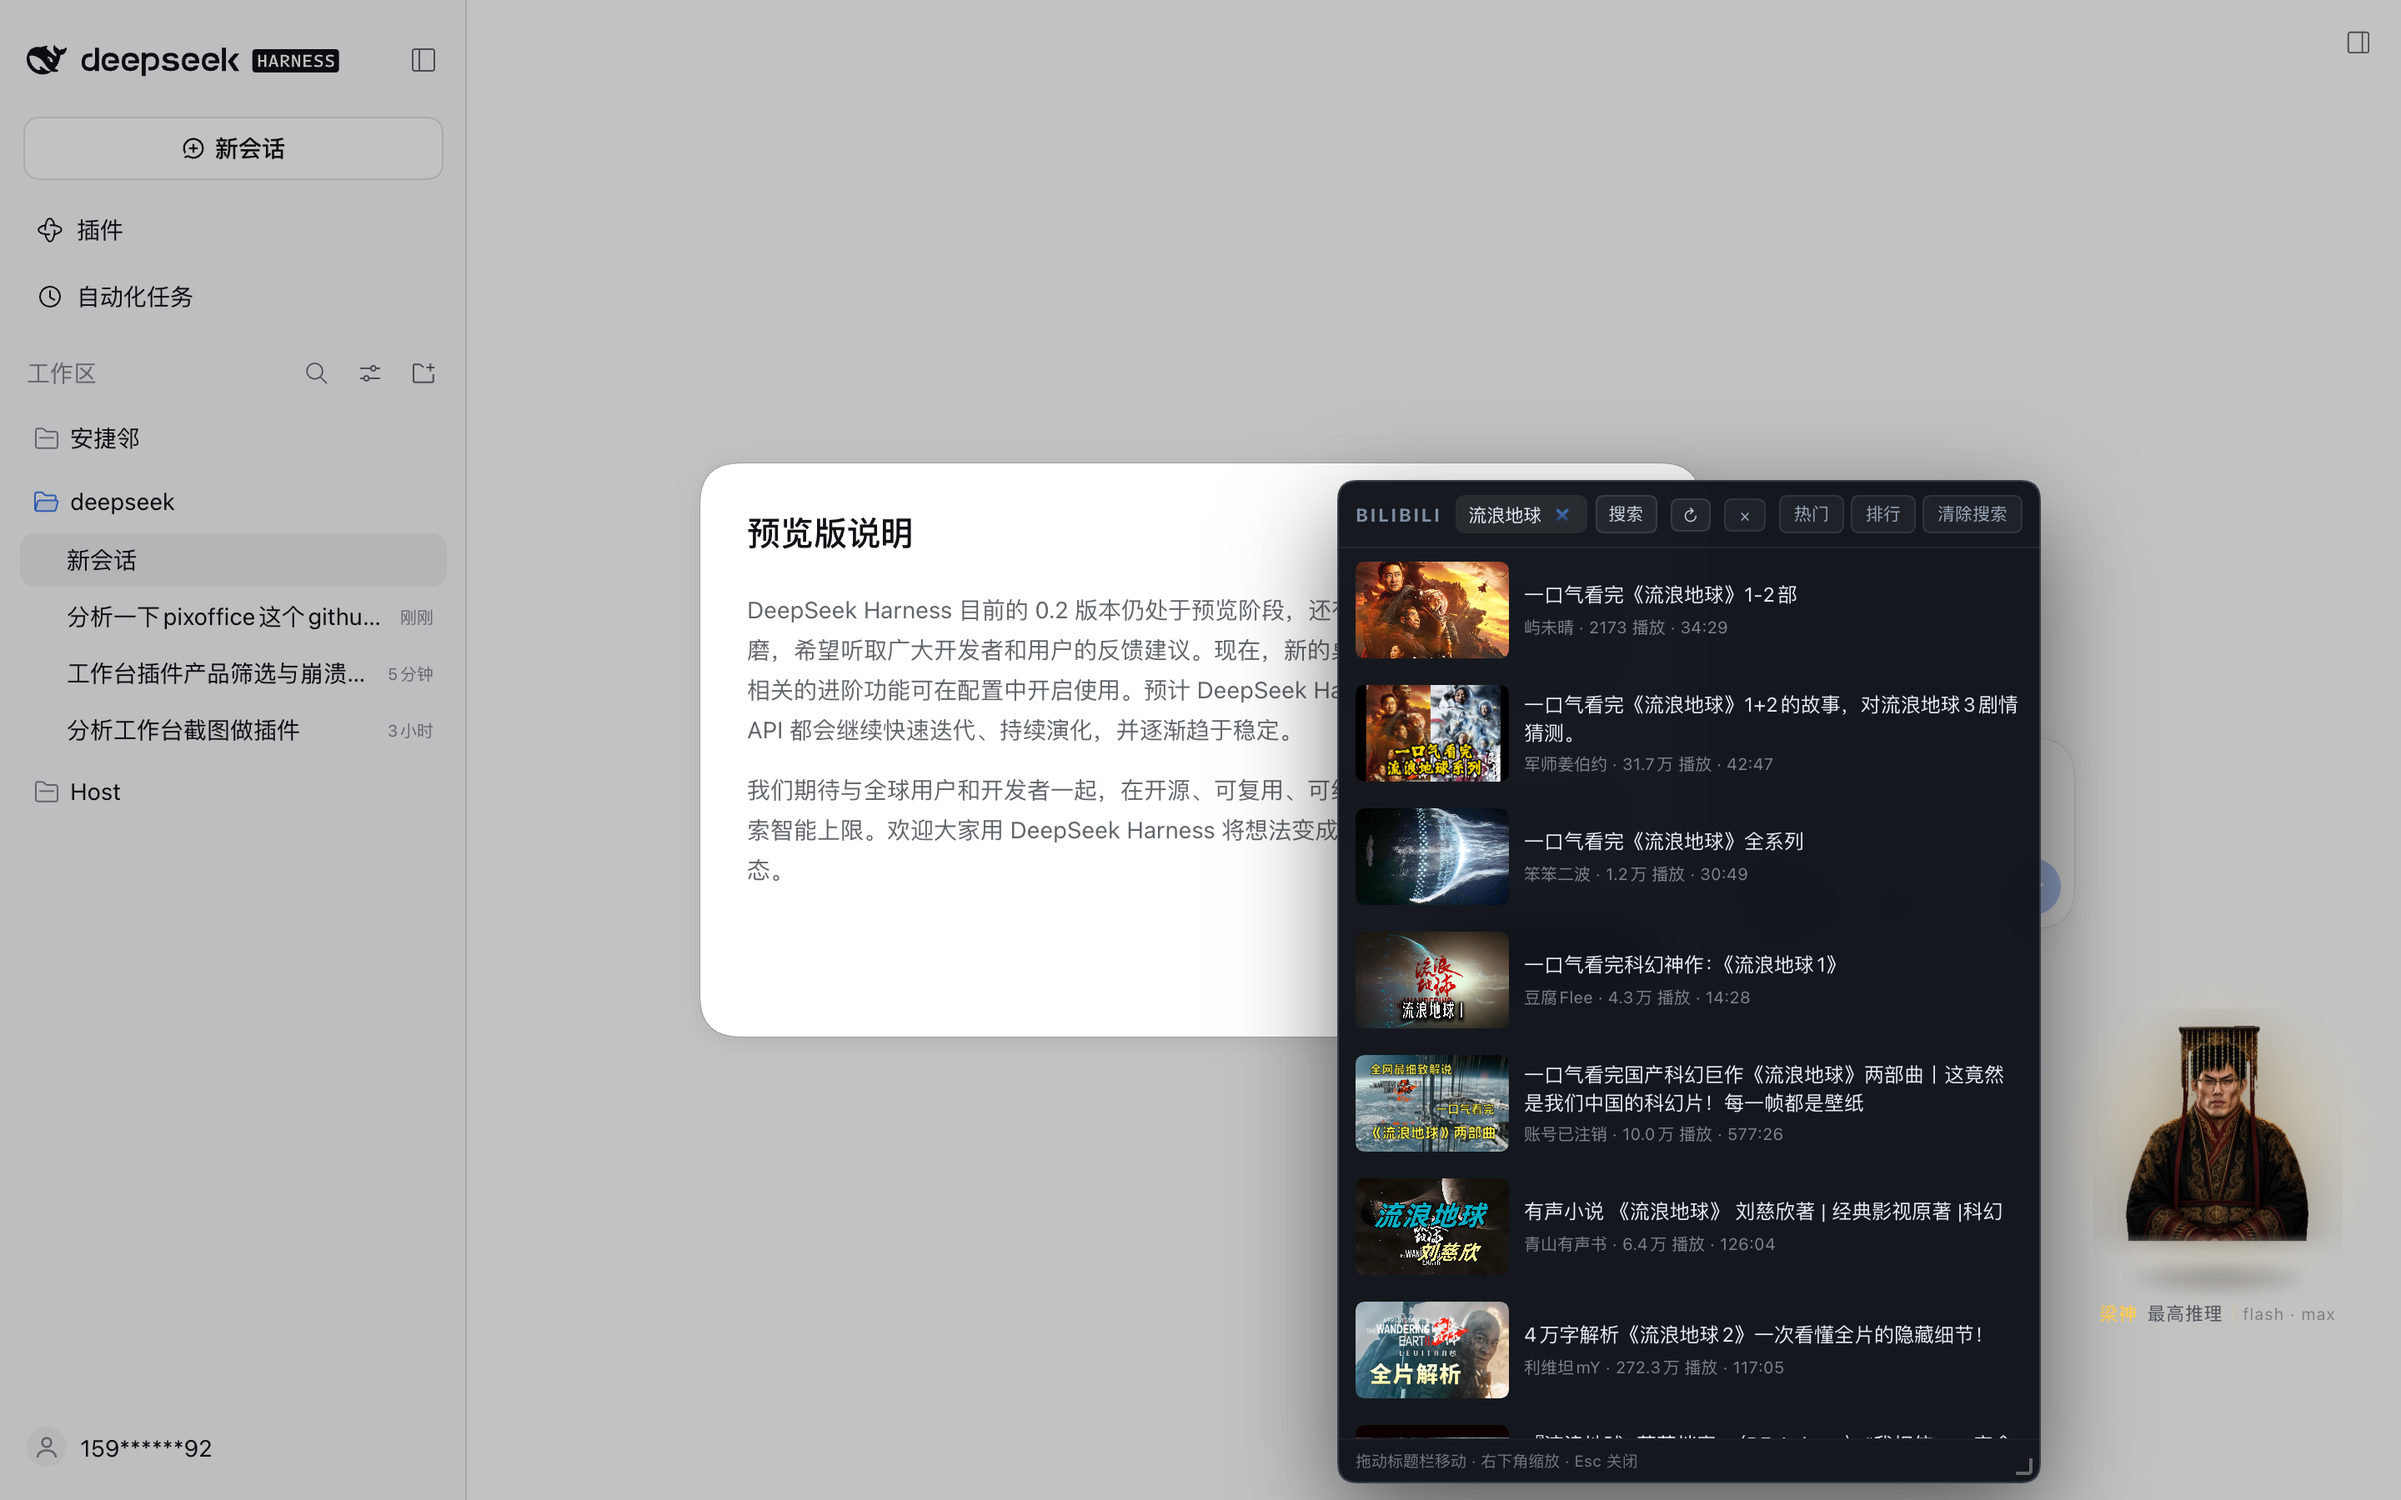
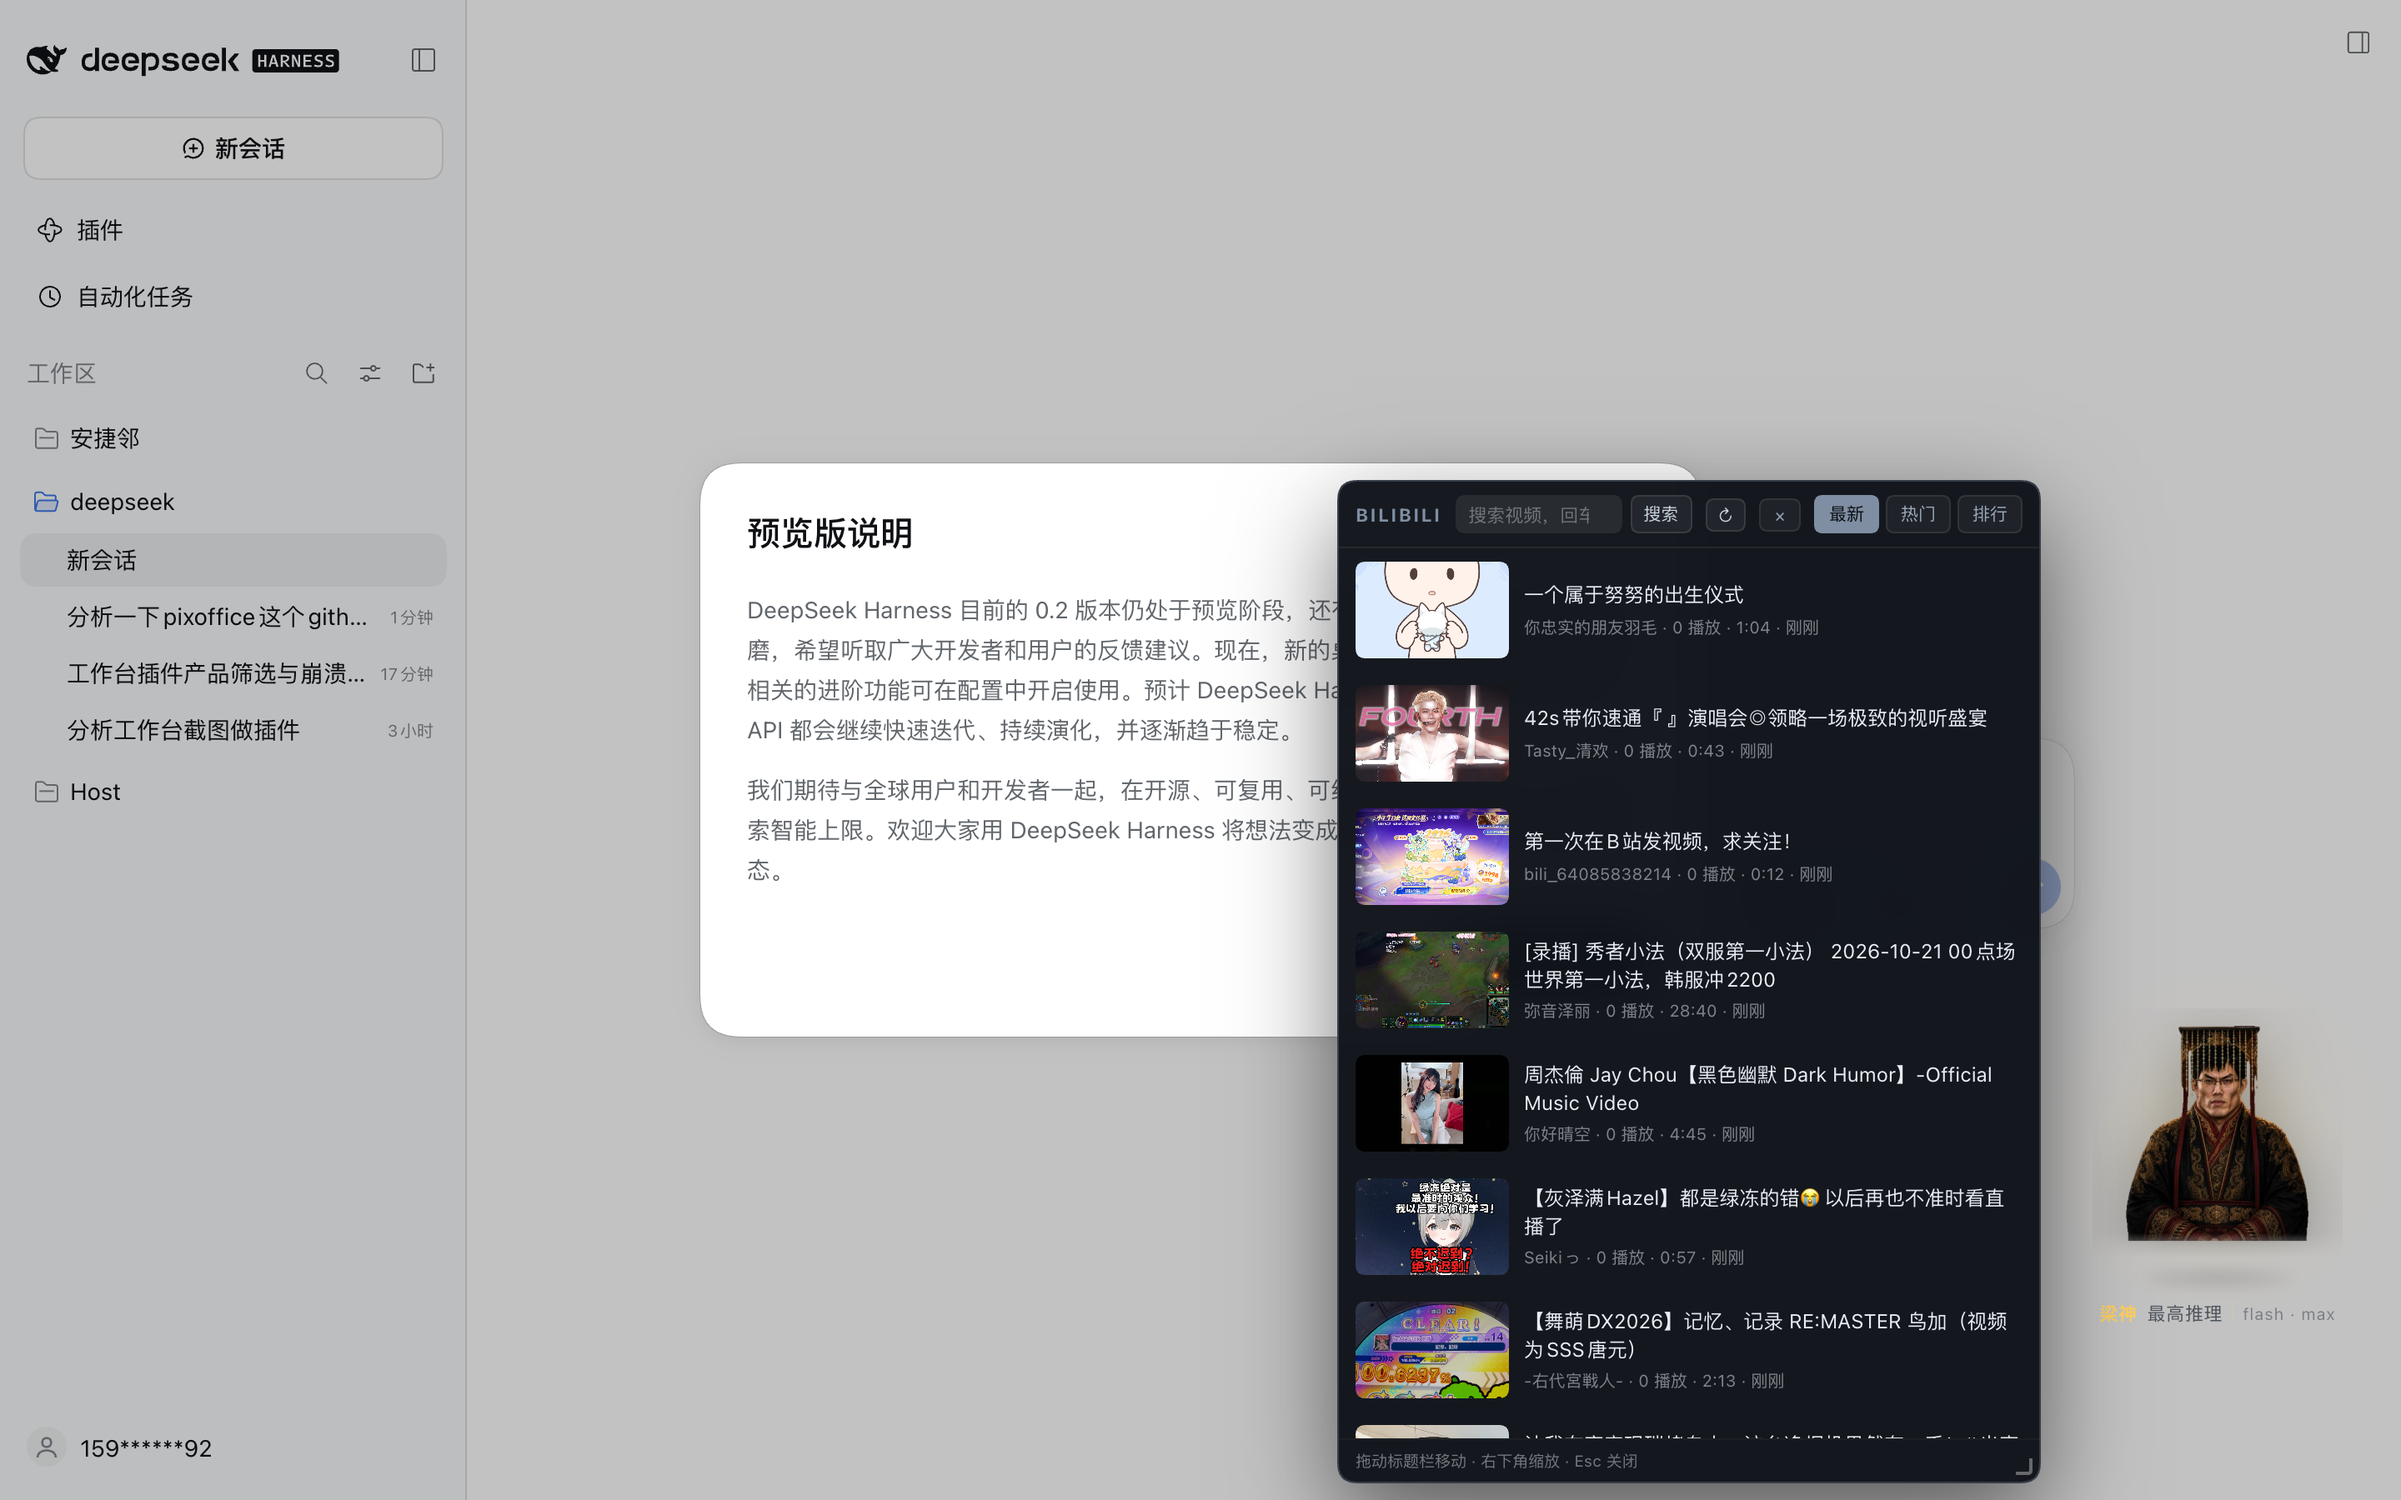
feat(bili): 新增「最新」频道、刷新翻页、相对时间
- 新增 kind=new：并发拉 6 个分区 newlist，按 pubdate 倒序合并 → 几分钟内的新投稿
- 默认频道改为「最新」；热门/排行保留
- 刷新：热门按 pn 翻页（每点一次换一批），其余重拉
- 所有请求带 _t 时间戳破缓存
- 列表 meta 增加「刚刚 / N 分钟前 / N 小时前 / N 天前」

Changed region(s): [[0.5625, 0.3422, 0.8438, 0.9644], [0.75, 0.3111, 0.7812, 0.3733], [0.8125, 0.6222, 0.8438, 0.6533]]

diff --git a/client/client.js b/client/client.js
@@ -37,7 +37,7 @@ window.__ModuleLoader__.load({
     var ROOT_ID = 'dsh-pet-liang-root'
     var POS_KEY = 'dsh-pet-liang:pos'
     /* 素材改了名字没变，加一个版本号强制浏览器重新取（宿主给的是 immutable 缓存） */
-    var ASSET_V = '28'
+    var ASSET_V = '29'
     var STYLE_ID = 'dsh-pet-liang-style'
 
     /** 四档推理等级对应的称呼与氛围色。 */
@@ -296,8 +296,9 @@ window.__ModuleLoader__.load({
     var overlay = null
     var switchTimers = []
     var biliOpen = false
-    var biliKind = 'hot'
+    var biliKind = 'new'
     var biliQuery = ''
+    var biliPage = 1
     var biliMode = 'list'
     var biliList = null
     var biliError = ''
@@ -553,8 +554,9 @@ window.__ModuleLoader__.load({
 
     var bw = null                 // 窗口根节点
     var biliOpen = false
-    var biliKind = 'hot'
+    var biliKind = 'new'
     var biliQuery = ''
+    var biliPage = 1
     var biliMode = 'list'
     var biliList = null
     var biliError = ''
@@ -709,6 +711,7 @@ window.__ModuleLoader__.load({
         }
         biliList = null
         biliError = ''
+        if (!biliQuery && biliKind === 'hot') biliPage = biliPage >= 5 ? 1 : biliPage + 1
         renderBili()
         void loadBili()
       })
@@ -723,7 +726,7 @@ window.__ModuleLoader__.load({
       head.appendChild(close)
 
       var tabs = el('div', 'bw-tabs')
-      ;[['hot', '热门'], ['rank', '排行']].forEach(function (pair) {
+      ;[['new', '最新'], ['hot', '热门'], ['rank', '排行']].forEach(function (pair) {
         var button = el('button', '', pair[1])
         button.type = 'button'
         button.setAttribute('data-kind', pair[0])
@@ -732,6 +735,7 @@ window.__ModuleLoader__.load({
           biliQuery = ''
           if (biliKind === pair[0] && biliList) return
           biliKind = pair[0]
+          biliPage = 1
           biliList = null
           biliMode = 'list'
           renderBili()
@@ -809,6 +813,17 @@ window.__ModuleLoader__.load({
       var m = Math.floor(total / 60)
       var sec = total % 60
       return m + ':' + (sec < 10 ? '0' + sec : String(sec))
+    }
+
+    function formatAgo(pubdate) {
+      var ts = Number(pubdate) || 0
+      if (!ts) return ''
+      var diff = Math.max(0, Math.floor((Date.now() - ts * 1000) / 1000))
+      if (diff < 60) return '刚刚'
+      if (diff < 3600) return Math.floor(diff / 60) + ' 分钟前'
+      if (diff < 86400) return Math.floor(diff / 3600) + ' 小时前'
+      if (diff < 86400 * 30) return Math.floor(diff / 86400) + ' 天前'
+      return new Date(ts * 1000).toLocaleDateString('zh-CN')
     }
 
     function formatViews(value) {
@@ -898,7 +913,8 @@ window.__ModuleLoader__.load({
           }
           var meta = el('div', 'bw-meta')
           meta.appendChild(el('div', 'bw-name', item.title || item.bvid))
-          meta.appendChild(el('div', 'bw-sub', (item.owner || '') + ' · ' + formatViews(item.views) + ' 播放 · ' + formatDuration(item.duration)))
+          var when = formatAgo(item.pubdate)
+          meta.appendChild(el('div', 'bw-sub', (item.owner || '') + ' · ' + formatViews(item.views) + ' 播放 · ' + formatDuration(item.duration) + (when ? ' · ' + when : '')))
           row.appendChild(meta)
           row.addEventListener('click', function (event) {
             event.stopPropagation()
@@ -914,8 +930,8 @@ window.__ModuleLoader__.load({
     async function loadBili() {
       biliError = ''
       var endpoint = biliQuery
-        ? BASE + '/api/bili-search?keyword=' + encodeURIComponent(biliQuery)
-        : BASE + '/api/bili?kind=' + encodeURIComponent(biliKind) + '&ps=16'
+        ? BASE + '/api/bili-search?keyword=' + encodeURIComponent(biliQuery) + '&_t=' + Date.now()
+        : BASE + '/api/bili?kind=' + encodeURIComponent(biliKind) + '&ps=16&pn=' + biliPage + '&_t=' + Date.now()
       try {
         var response = await fetch(endpoint, { headers: { Accept: 'application/json' } })
         var payload = await response.json()

diff --git a/lib/index.js b/lib/index.js
@@ -291,15 +291,34 @@ function applyImpl(ctx) {
       const kind = url.searchParams.get('kind') || 'hot'
       const pn = Math.max(1, Math.min(5, Number(url.searchParams.get('pn') || 1)))
       const ps = Math.max(1, Math.min(20, Number(url.searchParams.get('ps') || 12)))
-      let target
-      if (kind === 'rank') {
-        target = `https://api.bilibili.com/x/web-interface/ranking/v2?rid=0&type=all`
-      } else {
-        target = `https://api.bilibili.com/x/web-interface/popular?ps=${ps}&pn=${pn}`
-      }
       try {
+        /* 最新：并发拉若干分区的「最新投稿」，按发布时间倒序合并 */
+        if (kind === 'new') {
+          const partitions = [1, 3, 4, 5, 36, 188]
+          const results = await Promise.all(partitions.map(async (rid) => {
+            try {
+              const payload = await biliJson(`https://api.bilibili.com/x/web-interface/newlist?rid=${rid}&ps=12`)
+              const arr = payload?.data?.archives
+              return Array.isArray(arr) ? arr : []
+            } catch {
+              return []
+            }
+          }))
+          const seen = new Set()
+          const list = results
+            .flat()
+            .map(trimVideo)
+            .filter((item) => item.bvid && !seen.has(item.bvid) && seen.add(item.bvid))
+            .sort((a, b) => b.pubdate - a.pubdate)
+            .slice(0, Math.max(ps, 16))
+          return sendJson(res, 200, { ok: true, kind, list })
+        }
+
+        const target = kind === 'rank'
+          ? 'https://api.bilibili.com/x/web-interface/ranking/v2?rid=0&type=all'
+          : `https://api.bilibili.com/x/web-interface/popular?ps=${ps}&pn=${pn}`
         const payload = await biliJson(target)
-        const raw = kind === 'rank' ? payload?.data?.list : payload?.data?.list
+        const raw = payload?.data?.list
         const list = Array.isArray(raw) ? raw.map(trimVideo).filter((item) => item.bvid) : []
         return sendJson(res, 200, { ok: true, kind, list })
       } catch (err) {
